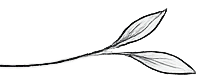
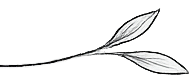
test 1 alineacion de hojas

Changed region(s): [[0.0, 0.1, 0.9948, 0.925], [0.9326, 0.925, 0.9637, 0.95]]

diff --git a/style.css b/style.css
@@ -145,14 +145,14 @@ p { margin-bottom: 1rem; font-size: 0.95rem; }
 .section {padding: 4rem 1rem; position: relative; max-width: 600px; margin: 0 auto;}
 .leaf-art {position: absolute; opacity: 0.6; pointer-events: none; max-width: 150px; height: auto; z-index: 1;}
 .leaf-top { max-width: 200px; z-index: 0;} 
-.leaf-bottom-1 { max-width: 100px; z-index: 0;}
+.leaf-bottom-1 { max-width: 95px; z-index: 0;}
 .leaf-bottom-2 { max-width: 100px; z-index: 0;}
 .leaf-circle-frame { max-width: 450px; opacity: 0.4;}
 .leaf-separator { position: static; display: block; margin: 1.5rem auto; opacity: 0.5; max-width: 100px; }
 .leaf-footer-left, .leaf-footer-right { max-width: 100px; opacity: 0.4;}
 .leaf-top { top: 10px; left: 50%; transform: translateX(-50%); }
-.leaf-bottom-1 { bottom: 6%; right: 25%; transform: translateX(-50%); }
-.leaf-bottom-2 { bottom: 6%; left: 37%; transform: translateX(-50%); }
+.leaf-bottom-1 { bottom: 6%; left: 64%; transform: translateX(-50%); }
+.leaf-bottom-2 { bottom: 6%; right: 52%; transform: translateX(-50%); }
 .leaf-circle-frame { top: 42%; left: 50%; transform: translate(-50%, -50%); }
 .leaf-swirl-top { top: 2rem; right: 1rem; }
 .leaf-swirl-bottom { bottom: 2rem; left: 1rem; }
